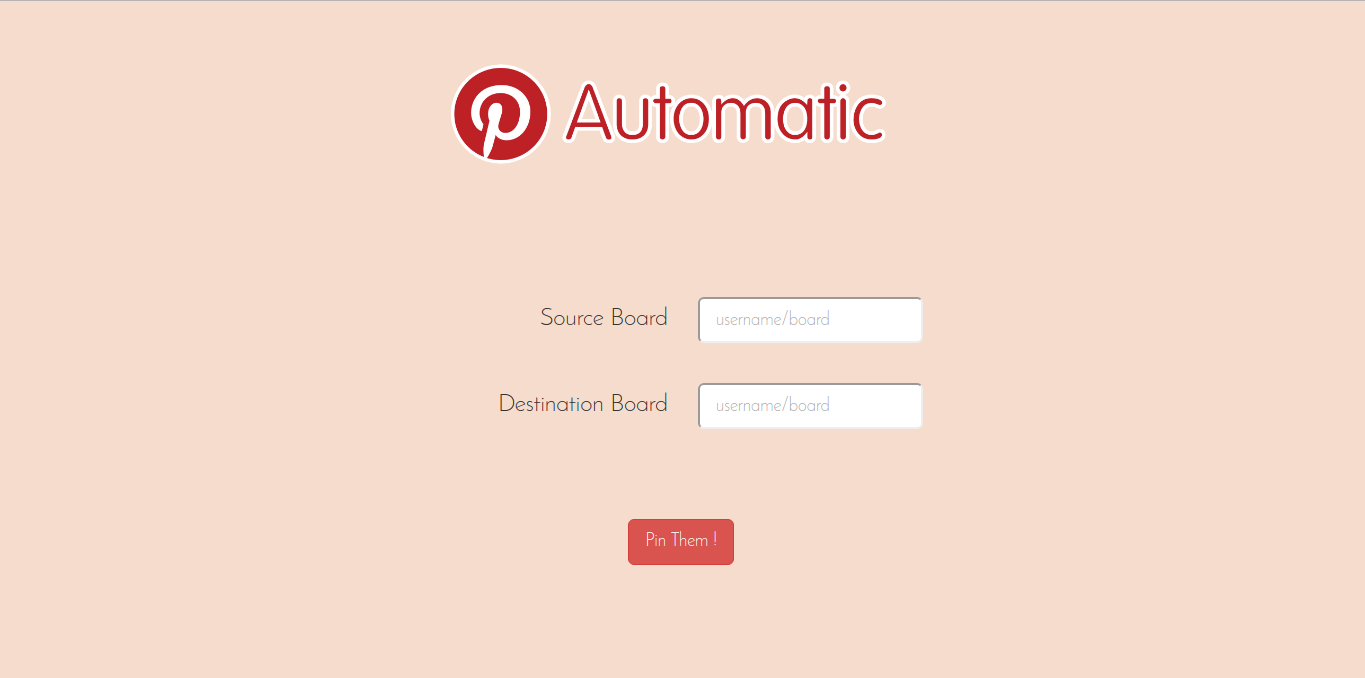
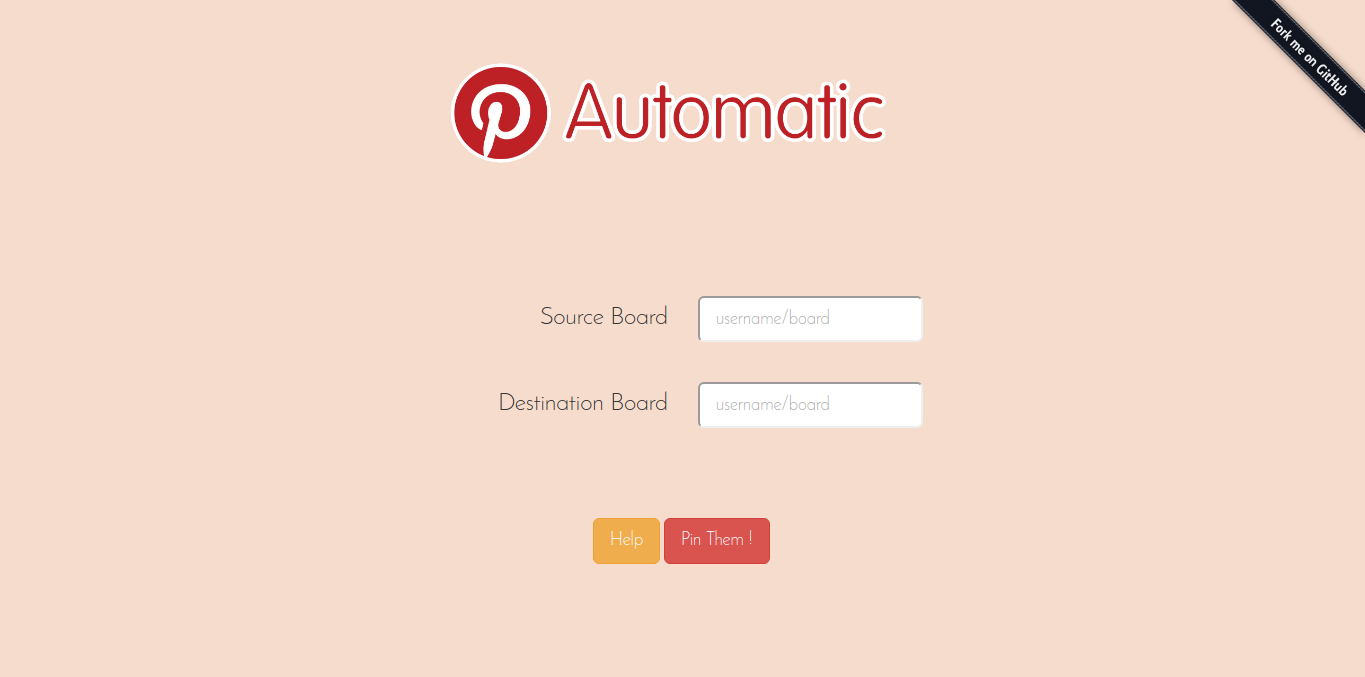
Added help button

diff --git a/pin.html b/pin.html
@@ -19,6 +19,41 @@
 			<img src="img/pinterest.png" style="width: 530px; padding-top: 30px;" class="img-responsive">
 		</div>
 
+		<!-- Modal -->
+		<div id="help" class="modal fade" role="dialog">
+			<div class="modal-dialog modal-lg">
+
+		    <!-- Modal content-->
+		    <div class="modal-content">
+		    	<div class="modal-header">
+		        	<button type="button" class="close" data-dismiss="modal">&times;</button>
+		        	<h4 class="modal-title">Help</h4>
+		    	</div>
+		    	<div class="modal-body">
+					<h1>Working</h1>
+					<br><br>
+					Once you're logged in, you don't need to login again unless there has been an inactivity for more than 7 days or you clear out your cookies. The app stores your Pinterest Token in cookies, so enable cookies to avoid logging in everytime you use this app. <br>
+					Source Board and Destination Boards can be entered in 2 ways- <br>
+					<ul>
+						<li> Either the complete URL of boards can be entered from the Pinterest Site. </li>
+						<li> Or you can enter it manually as "Username/Board-name", if you know the username and board name of the person. </li>
+					</ul>
+					The Destination Board can even be a Secret Board in your account.<br><br>
+
+					<h1>Limitations</h1>
+					<br><br>
+					The only limitation is that you can only pin 1000 pins per hour as this is the limit put up by Pinterest API, but I think that a 1000 pins must be enough for one day ;) .
+
+					<h2>Disclaimer</h2>
+					This app complies completely with <a href="https://developers.pinterest.com/policy/">Pinterest Developer's Policy</a>. If you have any issues contact me via <a href="http://scr.im/3hmx">email</a>.
+		    	</div>
+		    	<div class="modal-footer">
+		        	<button type="button" class="btn btn-default" data-dismiss="modal">Close</button>
+		    	</div>
+		    </div>
+
+		  </div>
+		</div>
 
 		<div class="input-area">
 			<form onsubmit="pinThem(event);">
@@ -37,6 +72,7 @@
 					<input type="text" id="destination_board" class="input-lg" placeholder="username/board">
 					<div id="err2"></div>
 				</div>
+				<button class="btn btn-lg btn-warning" type="button" data-toggle="modal" data-target="#help">Help</button>
 				<input type="submit" class="btn btn-lg btn-danger" value="Pin Them !">
 				<br><br>
 			</form>

diff --git a/css/pin.css b/css/pin.css
@@ -20,7 +20,7 @@ h1 {
 	padding-top: 10px;
 }
 
-.btn-danger {
+.btn-danger, .btn-warning {
 	margin-top: 90px;
 }
 
@@ -43,6 +43,11 @@ h1 {
 	color: red;
 }
 
+.modal-body {
+	text-align: left;
+	font-size: 17px;
+}
+
 @media (max-width: 770px) {
 	h1 {
 		font-size: 20px !important;
@@ -63,7 +68,7 @@ h1 {
 		padding-top: 10px;
 	}
 
-	.btn-danger {
+	.btn-danger, .btn-warning {
 		margin-top: 60px;
 	}
 
